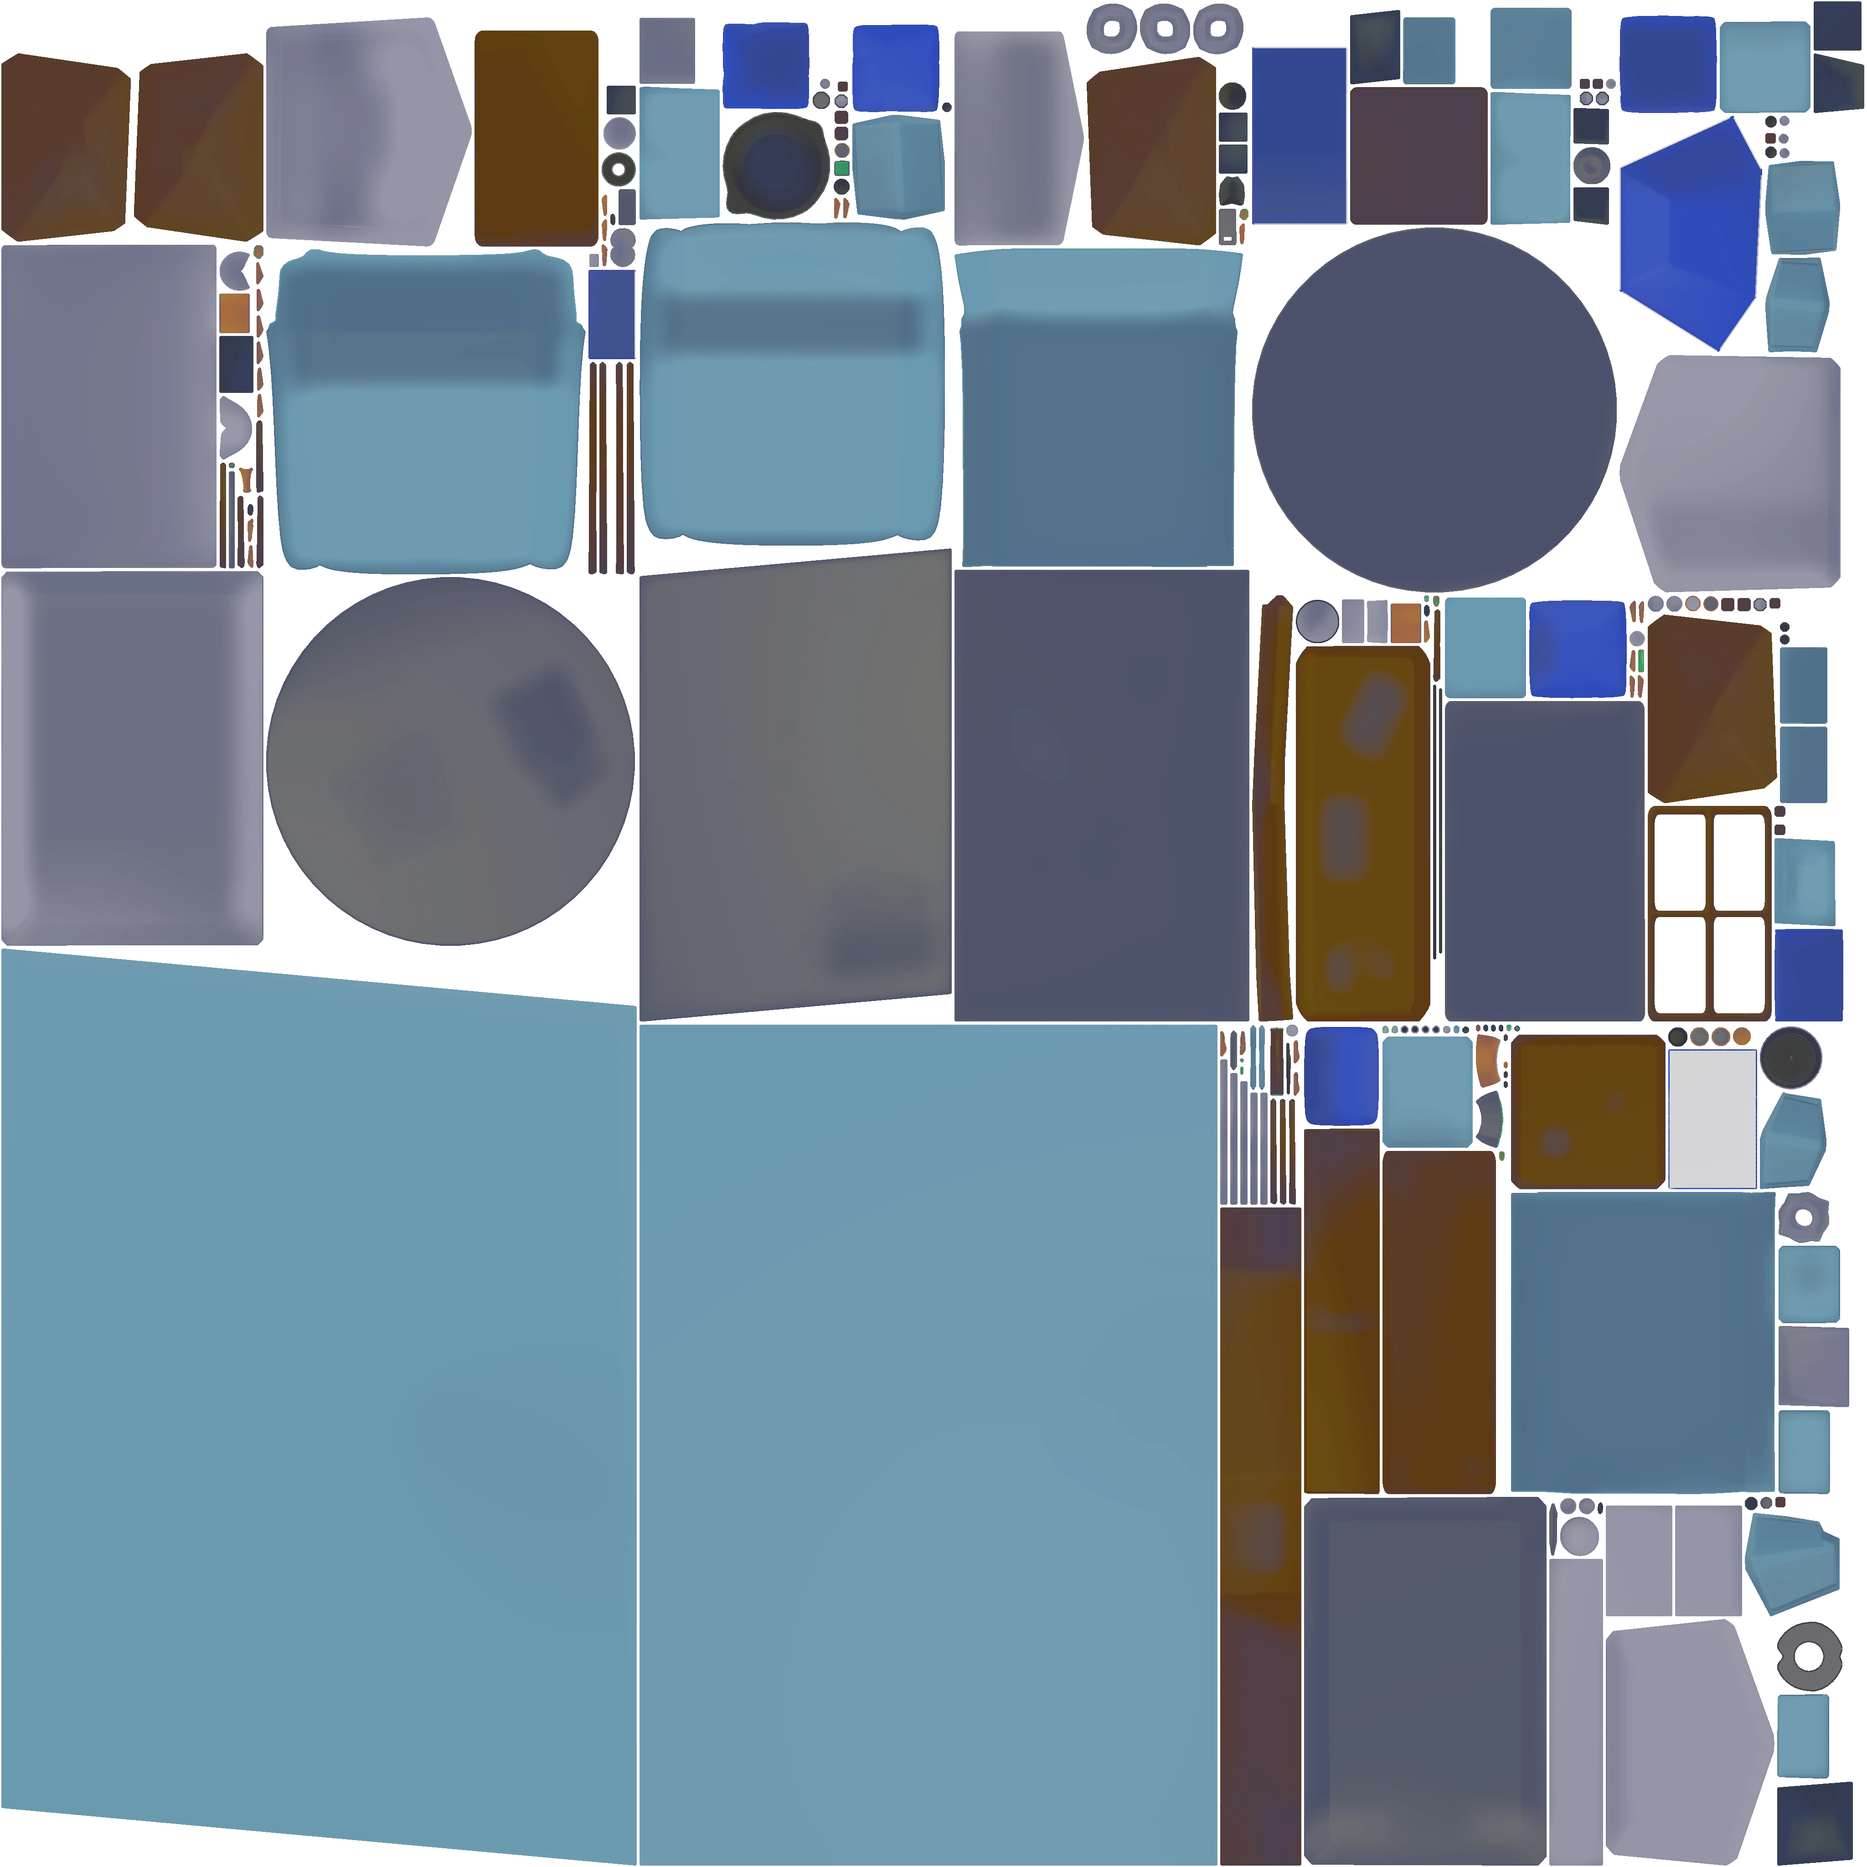
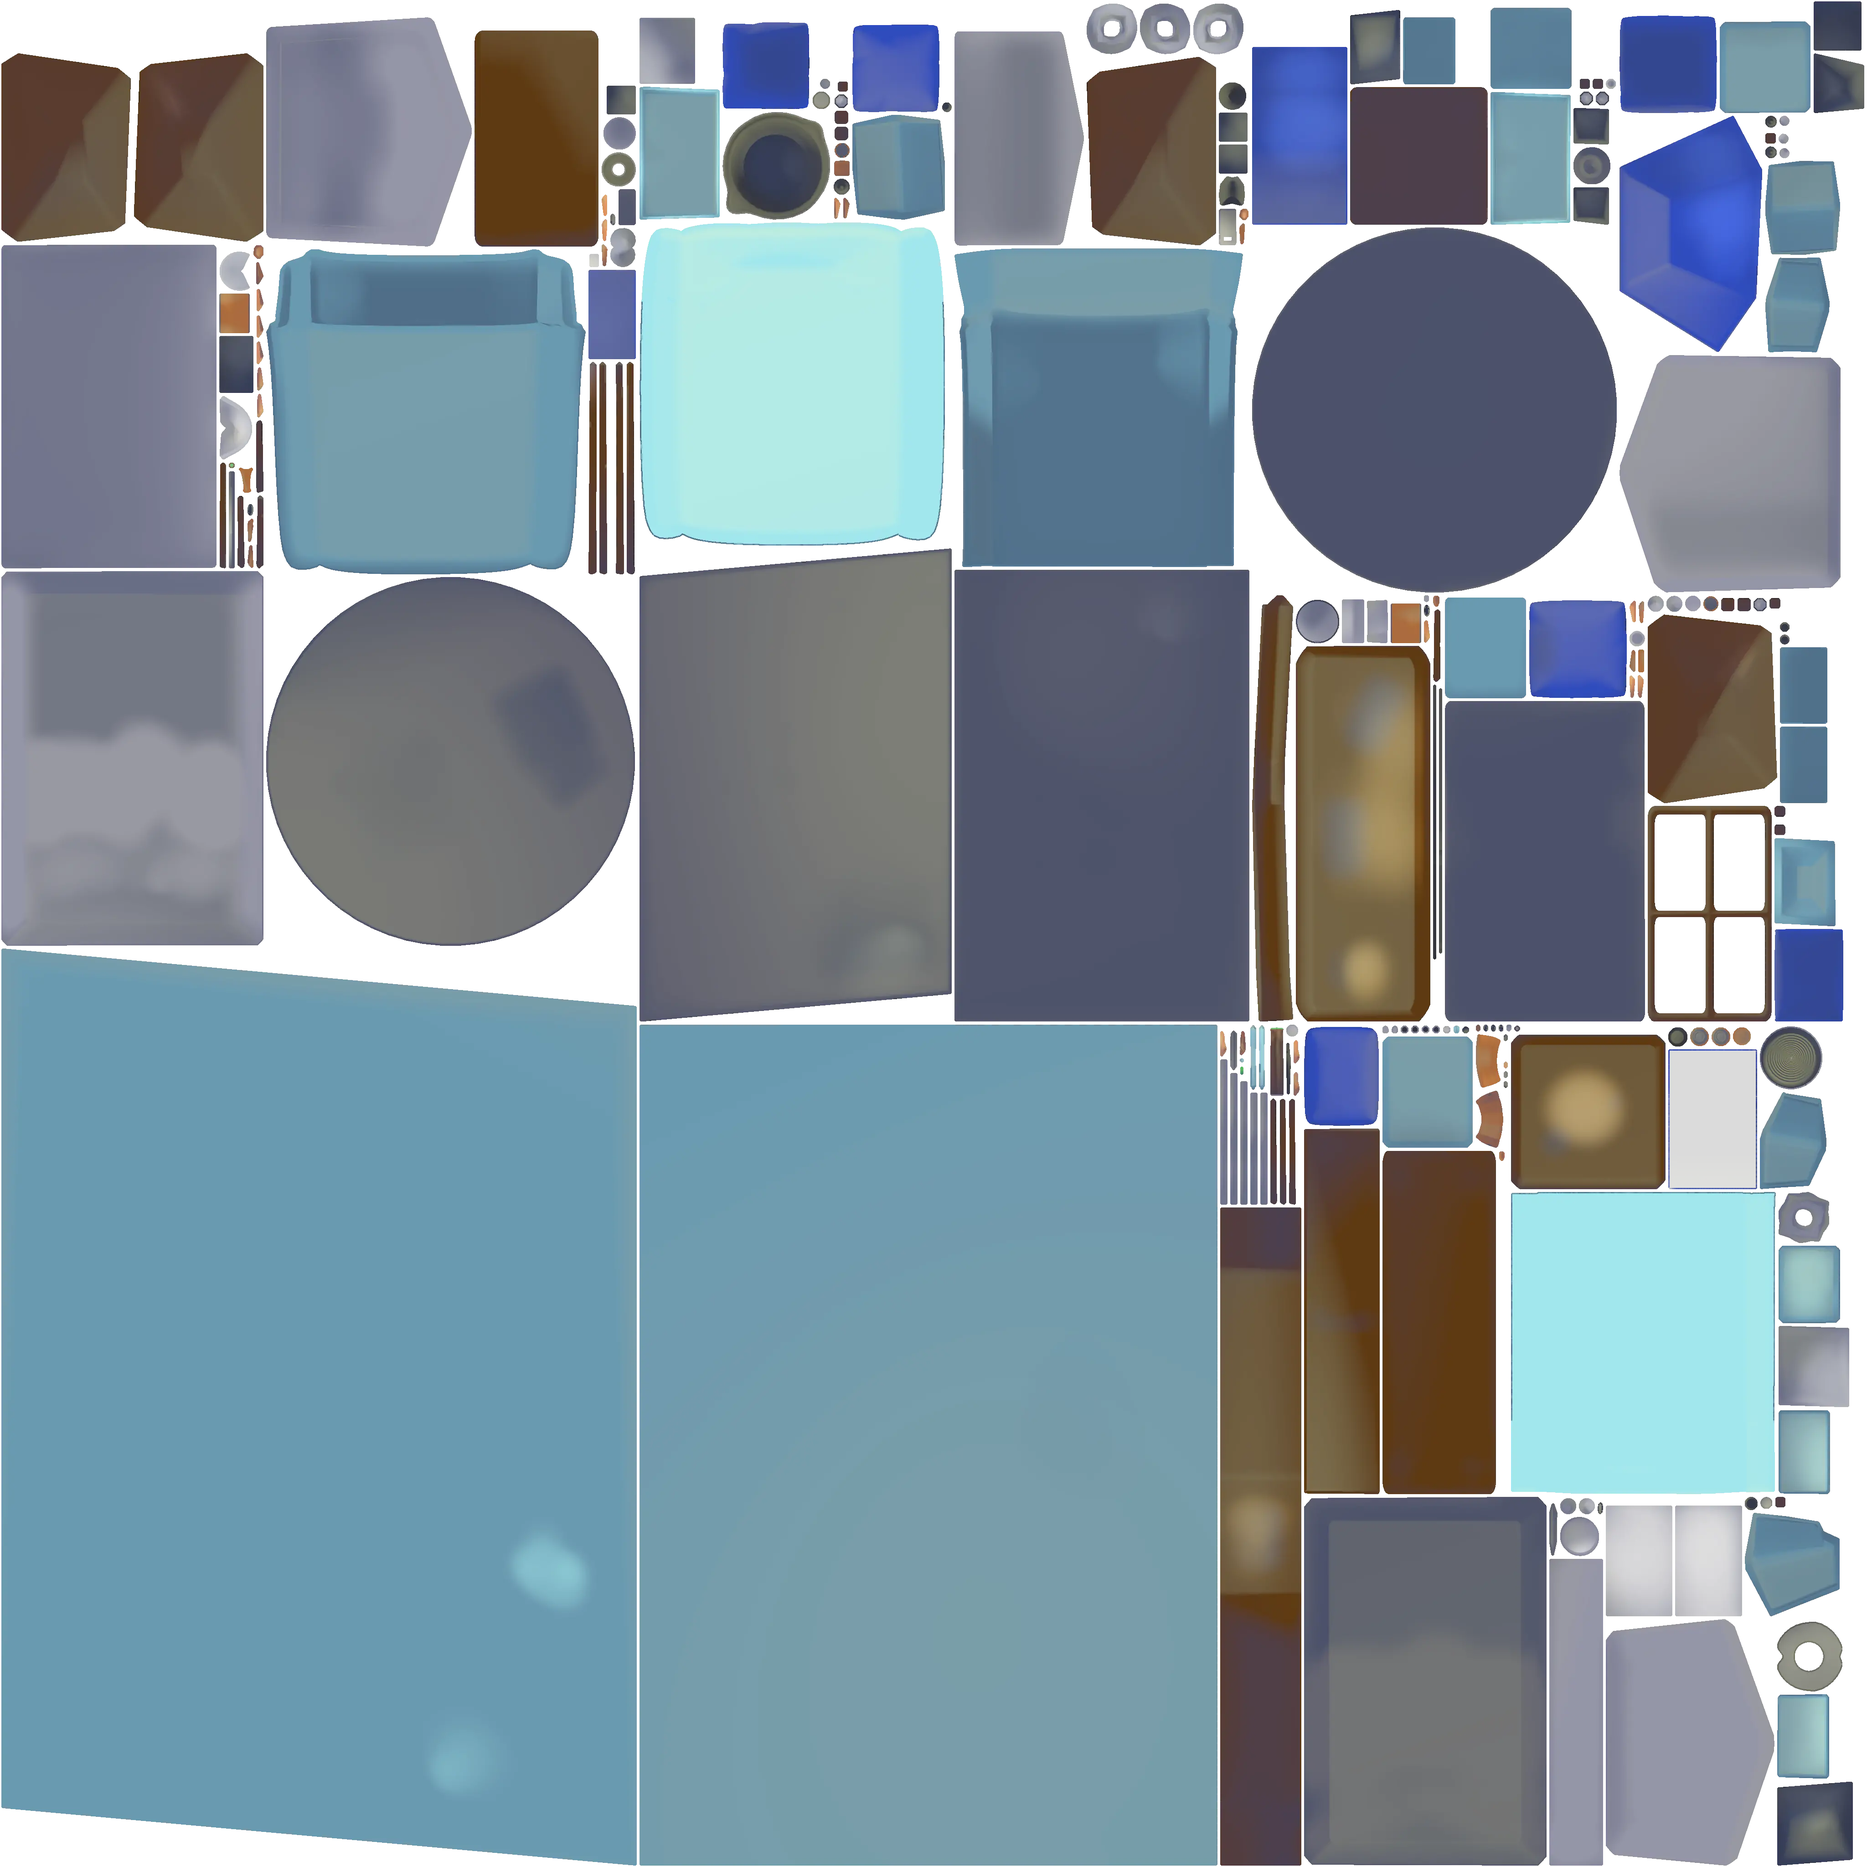
新しい3Dモデルを追加

diff --git a/src/components/Fini.tsx b/src/components/Fini.tsx
@@ -3,10 +3,6 @@ Auto-generated by: https://github.com/pmndrs/gltfjsx
 Command: npx gltfjsx@6.5.3 public/fini.glb -t
 */
 
-// サブスタでpcとmonitorとdeskのlight書き込む
-// ガラスと分離して、pcとmonitorはアルファテクスチャで透過させる
-// スマホ表記を直す
-
 import * as THREE from "three";
 import { GLTF } from "three-stdlib";
 import { useMemo, useRef } from "react";
@@ -42,6 +38,7 @@ type GLTFResult = GLTF & {
     mat2: THREE.Mesh;
     rimo: THREE.Mesh;
     light: THREE.Mesh;
+    pc_grass: THREE.Mesh;
     music: THREE.Mesh;
     musicOFF: THREE.Mesh;
     musicON: THREE.Mesh;
@@ -53,12 +50,11 @@ type GLTFResult = GLTF & {
     juce_Dark: THREE.Mesh;
   };
   materials: {
-    Mat_All: THREE.MeshStandardMaterial; // 使わないので無視してOK
+    Mat_All: THREE.MeshStandardMaterial;
   };
   animations: GLTFAction[];
 };
 
-// 【重要】Dracoのデコーダーは解凍に必須なので絶対に消さない！
 useGLTF.setDecoderPath(
   "https://www.gstatic.com/draco/versioned/decoders/1.5.5/"
 );
@@ -69,18 +65,21 @@ export function Model({ isDark, ...props }: Props & ThreeElements["group"]) {
   const roomRef = useRef<THREE.Group>(null);
   useRoomAnimation(roomRef);
 
+  // --- 画像の読み込み（計4枚） ---
   const turnOnTexture = useTexture("/TurnOn_BaseColor.webp");
   const turnOffTexture = useTexture("/TurnOff_BaseColor.webp");
+  const turnOnEmissive = useTexture("/TurnOn_Emissive.webp");
+  const turnOffEmissive = useTexture("/TurnOff_Emissive.webp");
 
   const rawTexture = isDark ? turnOffTexture : turnOnTexture;
+  const rawEmissive = isDark ? turnOffEmissive : turnOnEmissive;
 
+  // BaseColorの設定
   const bakedTexture = useMemo(() => {
     if (!rawTexture) return null;
     const t = rawTexture.clone();
     t.flipY = false;
-
     t.colorSpace = THREE.SRGBColorSpace;
-
     t.anisotropy = 2;
     t.minFilter = THREE.LinearFilter;
     t.magFilter = THREE.LinearFilter;
@@ -88,9 +87,19 @@ export function Model({ isDark, ...props }: Props & ThreeElements["group"]) {
     return t;
   }, [rawTexture]);
 
+  // Emissive（発光マップ）の設定
+  const emissiveTexture = useMemo(() => {
+    if (!rawEmissive) return null;
+    const t = rawEmissive.clone();
+    t.flipY = false;
+    t.colorSpace = THREE.SRGBColorSpace;
+    t.needsUpdate = true;
+    return t;
+  }, [rawEmissive]);
+
   return (
     <group ref={roomRef} {...props} dispose={null}>
-      {/* ===== 床・ラグ系 ===== */}
+      {/* ===== 床・ラグ系 (光らないのでBasic) ===== */}
       <mesh geometry={nodes.floor.geometry} position={[0.607, -0.068, 0.076]}>
         <meshBasicMaterial map={bakedTexture} />
       </mesh>
@@ -112,13 +121,21 @@ export function Model({ isDark, ...props }: Props & ThreeElements["group"]) {
         <meshBasicMaterial map={bakedTexture} />
       </mesh>
 
-      {/* メインモニター (SpotLightとコンテンツ入り) */}
+      {/* ===== 発光パーツ（ここだけ StandardMaterial ＋ Emissive） ===== */}
+      {/* メインモニター */}
       <mesh
         geometry={nodes.monitor_center.geometry}
         position={[-1.363, 1.255, 0.477]}
         rotation={[0.002, -0.003, 0.069]}
       >
-        <meshBasicMaterial map={bakedTexture} />
+        <meshStandardMaterial
+          map={bakedTexture}
+          emissiveMap={emissiveTexture}
+          emissive="#ffffff"
+          emissiveIntensity={isDark ? 2.0 : 0.8} // 夜は強く光らせる
+          transparent={true}
+          alphaTest={0.5}
+        />
         <group
           position={[0, 0, 0]}
           rotation-order="YXZ"
@@ -126,49 +143,84 @@ export function Model({ isDark, ...props }: Props & ThreeElements["group"]) {
         >
           <MonitorContent monitorId={0} width={0.61} height={0.36} />
         </group>
-        <spotLight
-          position={[0.02, 0.085, 0]}
-          shadow-bias={-0.0001}
-          intensity={isDark ? 0.5 : 0}
-          angle={Math.PI / 2}
-          penumbra={0.2}
-          distance={0.4}
-          color="#d5d5d5"
-          onUpdate={(self) => {
-            self.target.position.set(0.12, 0.185, 0);
-            self.target.updateMatrixWorld();
-          }}
-        />
       </mesh>
 
-      {/* サブモニター (SpotLightとコンテンツ入り) */}
+      {/* サブモニター */}
       <mesh
         geometry={nodes.monitor_right.geometry}
         position={[-1.186, 1.255, -0.163]}
         rotation={[0.002, -0.49, 0.07]}
       >
-        <meshBasicMaterial map={bakedTexture} />
+        <meshStandardMaterial
+          map={bakedTexture}
+          emissiveMap={emissiveTexture}
+          emissive="#ffffff"
+          emissiveIntensity={isDark ? 2.0 : 0.8}
+          transparent={true}
+          alphaTest={0.5}
+        />
         <group position={[0, 0, 0]} rotation={[0, Math.PI / 2, 0]}>
           <MonitorContent monitorId={1} width={0.61} height={0.36} />
         </group>
-        <spotLight
-          position={[0.027, 0.08, 0]}
-          shadow-bias={-0.0001}
-          intensity={isDark ? 0.5 : 0}
-          angle={Math.PI / 2}
-          penumbra={0.2}
-          distance={0.4}
-          color="#d5d5d5"
-          onUpdate={(self) => {
-            self.target.position.set(0.077, 0.08, 0);
-            self.target.updateMatrixWorld();
-          }}
+      </mesh>
+
+      {/* PC本体（RGBファンなどが光るならStandard） */}
+      <mesh
+        geometry={nodes.pc.geometry}
+        position={[-1.244, 0.258, -0.629]}
+        rotation={[0, -Math.PI / 2, 0]}
+      >
+        <meshStandardMaterial
+          map={bakedTexture}
+          emissiveMap={emissiveTexture}
+          emissive="#ffffff"
+          emissiveIntensity={isDark ? 2.0 : 1.0}
+          transparent={true}
+          alphaTest={0.5}
         />
       </mesh>
 
-      {/* PC本体・マイク */}
+      {/* 時計 */}
       <mesh
-        geometry={nodes.pc.geometry}
+        geometry={nodes.clock.geometry}
+        position={[-1.425, 1.048, 1.174]}
+        rotation={[0, 1.57, 0]}
+      >
+        <meshStandardMaterial
+          map={bakedTexture}
+          emissiveMap={emissiveTexture}
+          emissive="#ffffff"
+          emissiveIntensity={isDark ? 2.0 : 1.0}
+        />
+        <DigitalClock />
+        <mesh position={[0, 0, 0]}>
+          <planeGeometry args={[0.23, 0.12]} />
+          <meshBasicMaterial color="#c0c0c0" />
+        </mesh>
+      </mesh>
+
+      {/* リモコン */}
+      <mesh
+        geometry={nodes.rimo.geometry}
+        position={[1.188, 0.344, 0.784]}
+        rotation={[0, 1.031, 0]}
+      >
+        <meshStandardMaterial
+          map={bakedTexture}
+          emissiveMap={emissiveTexture}
+          emissive="#ffffff"
+          emissiveIntensity={isDark ? 2.0 : 1.0}
+        />
+        <mesh position={[0, 0.002, -0.035]} rotation={[-Math.PI / 2, 0, 0]}>
+          <planeGeometry args={[0.05, 0.035]} />
+          <meshBasicMaterial color="#c0c0c0" />
+        </mesh>
+      </mesh>
+      {/* ======================================================== */}
+
+      {/* PCのガラス（分離大成功！完全に独立させて透かす） */}
+      <mesh
+        geometry={nodes.pc_grass.geometry}
         position={[-1.244, 0.258, -0.629]}
         rotation={[0, -Math.PI / 2, 0]}
       >
@@ -176,43 +228,14 @@ export function Model({ isDark, ...props }: Props & ThreeElements["group"]) {
           map={bakedTexture}
           transparent={true}
           depthWrite={false}
-          alphaTest={0.5}
         />
-        {/* PC内部用のライトを再設定 */}
-        <pointLight intensity={isDark ? 0.2 : 0} distance={0.3} decay={2} />
       </mesh>
+
       <mesh geometry={nodes.mic.geometry} position={[-1.35, 1.122, 0.907]}>
         <meshBasicMaterial map={bakedTexture} />
       </mesh>
 
-      {/* 時計 (DigitalClockとSpotLight入り) */}
-      <mesh
-        geometry={nodes.clock.geometry}
-        position={[-1.425, 1.048, 1.174]}
-        rotation={[0, 1.57, 0]}
-      >
-        <meshBasicMaterial map={bakedTexture} />
-        <DigitalClock />
-        <mesh position={[0, 0, 0.0505]}>
-          <planeGeometry args={[0.23, 0.12]} />
-          <meshBasicMaterial color="#c0c0c0" />
-        </mesh>
-        <spotLight
-          position={[0, 0, 0]}
-          shadow-bias={-0.0001}
-          intensity={isDark ? 0.1 : 0}
-          angle={Math.PI / 2}
-          penumbra={0.5}
-          distance={0.2}
-          color="#d5d5d5"
-          onUpdate={(self) => {
-            self.target.position.set(1, 0, 0.0505);
-            self.target.updateMatrixWorld();
-          }}
-        />
-      </mesh>
-
-      {/* 飲み物（Dark / Lightで出し分け） */}
+      {/* ===== 飲み物 ===== */}
       <mesh
         geometry={nodes.juce_Dark.geometry}
         position={[-1.157, 1.067, 1.222]}
@@ -222,7 +245,8 @@ export function Model({ isDark, ...props }: Props & ThreeElements["group"]) {
       </mesh>
       <mesh
         geometry={nodes.cup_Light.geometry}
-        position={[-1.158, 1.04, 1.138]}
+        position={[-1.127, 1.042, 1.068]}
+        rotation={[0, 0.462, 0]}
         visible={!isDark}
       >
         <meshBasicMaterial map={bakedTexture} />
@@ -243,7 +267,7 @@ export function Model({ isDark, ...props }: Props & ThreeElements["group"]) {
         <meshBasicMaterial map={bakedTexture} />
       </mesh>
 
-      {/* レコード・音楽系（Darkで出し分け＆パーティクル） */}
+      {/* ===== レコード・音楽系 ===== */}
       <mesh
         geometry={nodes.music.geometry}
         position={[0.461, 1.119, -1.174]}
@@ -309,36 +333,8 @@ export function Model({ isDark, ...props }: Props & ThreeElements["group"]) {
       >
         <meshBasicMaterial map={bakedTexture} />
       </mesh>
-
-      {/* ミニデスク用ライト (SpotLight入り) */}
       <mesh geometry={nodes.light.geometry} position={[0.918, 0.347, 0.427]}>
         <meshBasicMaterial map={bakedTexture} />
-        <spotLight
-          position={[0, -0.079, 0]}
-          shadow-bias={-0.0001}
-          intensity={isDark ? 1 : 0}
-          angle={Math.PI / 3}
-          penumbra={0.2}
-          distance={0.4}
-          color="#d5d5d5"
-          onUpdate={(self) => {
-            self.target.position.set(1.137, 0.229, 0.642);
-            self.target.updateMatrixWorld();
-          }}
-        />
-      </mesh>
-
-      {/* リモコン (発光パネル入り) */}
-      <mesh
-        geometry={nodes.rimo.geometry}
-        position={[1.188, 0.344, 0.784]}
-        rotation={[0, 1.031, 0]}
-      >
-        <meshBasicMaterial map={bakedTexture} />
-        <mesh position={[0, 0.002, -0.035]} rotation={[-Math.PI / 2, 0, 0]}>
-          <planeGeometry args={[0.05, 0.035]} />
-          <meshBasicMaterial color="#c0c0c0" />
-        </mesh>
       </mesh>
     </group>
   );

diff --git a/src/components/Scene.tsx b/src/components/Scene.tsx
@@ -1,11 +1,12 @@
 "use client";
 
 import * as THREE from "three";
-import { Suspense, useRef } from "react";
+import { Suspense } from "react";
 import { Canvas, useFrame } from "@react-three/fiber";
 import { ScrollControls, Scroll, useScroll } from "@react-three/drei";
+import { useTheme } from "next-themes";
 
-import { Model } from "./Fini";
+import { Model } from "./Fini"; // ← ファイル名に合わせて適宜変更してください
 import CameraHandler from "@/components/CameraHandler";
 import Top from "@/components/sections/Top";
 import Works from "@/components/sections/Works";
@@ -13,20 +14,16 @@ import Vision from "@/components/sections/Vision";
 import Skills from "@/components/sections/Skills";
 import Profile from "@/components/sections/Profile";
 import Contact from "@/components/sections/Contact";
-import { useTheme } from "next-themes";
 
 function ColorShift() {
   const scroll = useScroll();
-  const colorBlue = useRef(new THREE.Color("#5b9cff"));
-  const colorPink = useRef(new THREE.Color("#ffd1dc"));
-  const backgroundColor = useRef(new THREE.Color("#5b9cff"));
+  const colorBlue = new THREE.Color("#5b9cff");
+  const colorPink = new THREE.Color("#ffd1dc");
 
   useFrame((state) => {
     const offset = scroll.offset;
     const t = THREE.MathUtils.smoothstep(offset, 0.45, 0.7);
-    state.scene.background = backgroundColor.current
-      .copy(colorBlue.current)
-      .lerp(colorPink.current, t);
+    state.scene.background = colorBlue.clone().lerp(colorPink, t);
   });
   return null;
 }
@@ -34,16 +31,22 @@ function ColorShift() {
 export default function Scene() {
   const { theme } = useTheme();
   const isDark = theme === "dark";
+
   return (
     <Canvas
       camera={{ position: [5, 5, 5], fov: 45 }}
-      dpr={[1, 2]}
+      dpr={[1, 2]} // 高画質化！
       gl={{
         localClippingEnabled: true,
-        antialias: true,
+        antialias: true, // ジャギー（ギザギザ）防止！
         powerPreference: "high-performance",
       }}
     >
+      {/* StandardMaterial（光るパーツ）の色を正確に出すための、無影の全体照明。
+        これ以外の Environment や pointLight は重いので全削除！
+      */}
+      <ambientLight intensity={1} color="#ffffff" />
+
       <Suspense fallback={null}>
         <ScrollControls pages={10.5} damping={0.1}>
           <Model isDark={isDark} />
